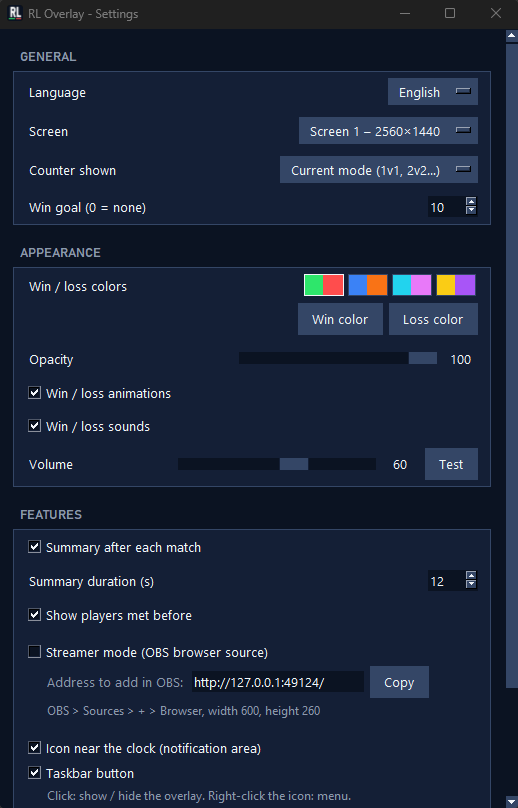
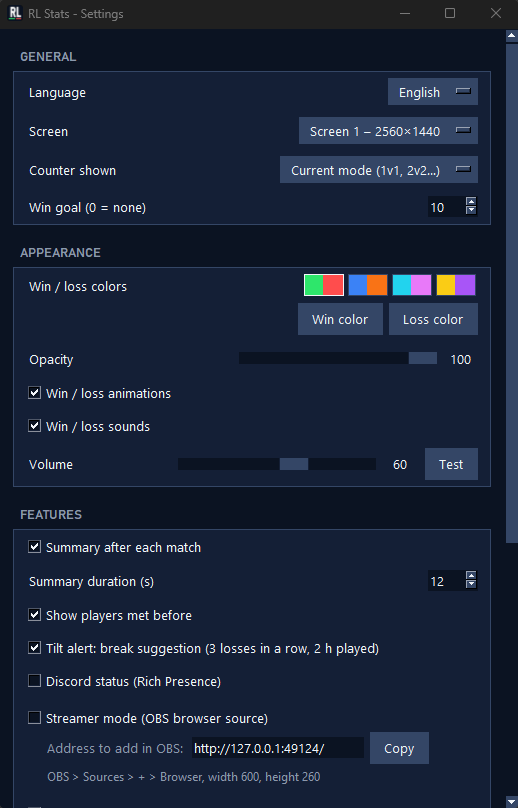
Rename the app to RL Stats
- rl_overlay.pyw/.spec/_wl.ico -> rl_stats.pyw/.spec/.ico, exe "RL Stats.exe"
- Window titles, tray tooltip, session card, Discord status, OBS page, docs
- Data migrated automatically from %APPDATA%\RL Overlay to %APPDATA%\RL Stats
- "Start with Windows" entry migrated to the new name
- Screenshots updated

diff --git a/i18n.py b/i18n.py
@@ -42,7 +42,7 @@ TEXTS = {
     "dc_streak": ("Série de {n} victoires", "{n} win streak"),
     "dc_games": ("{n} matchs cette session", "{n} games this session"),
     "dc_waiting": ("Session en cours", "Session in progress"),
-    "dc_button": ("Obtenir RL Overlay", "Get RL Overlay"),
+    "dc_button": ("Obtenir RL Stats", "Get RL Stats"),
 
     # Resume de match
     "sum_win": ("VICTOIRE", "VICTORY"),
@@ -97,7 +97,7 @@ TEXTS = {
     "name_detected": ("Détecté automatiquement : {name}", "Detected automatically: {name}"),
 
     # Parametres
-    "s_title": ("RL Overlay - Paramètres", "RL Overlay - Settings"),
+    "s_title": ("RL Stats - Paramètres", "RL Stats - Settings"),
     "s_general": ("Général", "General"),
     "s_language": ("Langue", "Language"),
     "s_lang_auto": ("Automatique (Windows)", "Automatic (Windows)"),
@@ -131,7 +131,7 @@ TEXTS = {
     "s_taskbar": ("Bouton dans la barre des tâches", "Taskbar button"),
     "s_shell_hint": ("Clic : afficher / masquer l'overlay. Clic droit sur l'icône : menu.",
                      "Click: show / hide the overlay. Right-click the icon: menu."),
-    "tray_tip": ("RL Overlay – {w}V {l}D", "RL Overlay – {w}W {l}L"),
+    "tray_tip": ("RL Stats – {w}V {l}D", "RL Stats – {w}W {l}L"),
     "s_hotkeys": ("Raccourcis clavier", "Keyboard shortcuts"),
     "s_hotkeys_desc": ("Ctrl+Maj+H : masquer / afficher    Ctrl+Maj+R : réinitialiser la session",
                        "Ctrl+Shift+H: hide / show    Ctrl+Shift+R: reset session"),
@@ -152,7 +152,7 @@ TEXTS = {
                      "Unavailable: no Discord application ID in this build"),
 
     # Historique
-    "h_title": ("RL Overlay - Historique", "RL Overlay - History"),
+    "h_title": ("RL Stats - Historique", "RL Stats - History"),
     "h_overview": ("Progression", "Progress"),
     "h_players": ("Joueurs croisés", "Players met"),
     "h_matches_tab": ("Matchs", "Games"),

diff --git a/designs.py b/designs.py
@@ -671,7 +671,7 @@ def render_session_card(info, T):
     d.rectangle([0, 0, split, 8 * s], fill=GREEN)
     d.rectangle([split, 0, W, 8 * s], fill=RED)
 
-    t = text_img([("RL OVERLAY", font(round(16 * s)), MUTED, 0), ("·  " + T("card_session"), font(round(16 * s), SEMI),
+    t = text_img([("RL STATS", font(round(16 * s)), MUTED, 0), ("·  " + T("card_session"), font(round(16 * s), SEMI),
                                                                    MUTED, 0)], shear=0)
     img.alpha_composite(t, (round(pad), round(30 * s)))
     t = text_img([(info["date"], font(round(16 * s), SEMI), MUTED, 0)], shear=0)

diff --git a/ui_windows.py b/ui_windows.py
@@ -661,7 +661,7 @@ class HistoryWindow:
             c.create_oval(px - r, py - r, px + r, py + r, fill=color, outline=PANEL, width=2)
 
     def export(self):
-        path = filedialog.asksaveasfilename(parent=self.win, defaultextension=".csv", initialfile="rl_overlay.csv",
+        path = filedialog.asksaveasfilename(parent=self.win, defaultextension=".csv", initialfile="rl_stats.csv",
                                             filetypes=[("CSV", "*.csv")])
         if path:
             self.history.export_csv(path)

diff --git a/obs_server.py b/obs_server.py
@@ -12,7 +12,7 @@ OBS_PORT = 49124
 OBS_URL = f"http://127.0.0.1:{OBS_PORT}/"
 
 PAGE = """<!doctype html>
-<html><head><meta charset="utf-8"><title>RL Overlay</title>
+<html><head><meta charset="utf-8"><title>RL Stats</title>
 <style>
   :root { --win: #2ee66b; --loss: #ff4d4d; --panel: rgba(11,19,34,.92); --mid: rgba(20,31,54,.92);
           --edge: #344666; --fg: #f1f5f9; --muted: #8c98ad; --amber: #f59e0b; }

diff --git a/README.md b/README.md
@@ -1,4 +1,4 @@
-# RL Overlay
+# RL Stats
 
 **Automatic win / loss tracker for Rocket League**, displayed right around your boost meter.
 Session stats per mode, post-match summary, history and progress charts, OBS browser source.
@@ -14,9 +14,9 @@ nothing is injected into the game and nothing touches the anti-cheat. Everything
 
 ## Download
 
-👉 **[Download the latest version](https://github.com/benguedj/RL_Stats/releases/latest)** (`RL Overlay.zip`, Windows 10/11)
+👉 **[Download the latest version](https://github.com/benguedj/RL_Stats/releases/latest)** (`RL Stats.zip`, Windows 10/11)
 
-1. Unzip and double-click **`RL Overlay.exe`** (no install needed).
+1. Unzip and double-click **`RL Stats.exe`** (no install needed).
    Windows SmartScreen may say *"Windows protected your PC"*: click **More info → Run anyway**
    (the exe is not code-signed).
 2. Start Rocket League, or **restart** it if it was already running (the game only reads its
@@ -83,9 +83,12 @@ in the players menu.
 
 **Are offline / private matches counted?** Only online matches are counted.
 
-**Where is my data?** In `%APPDATA%\RL Overlay` (settings, match history, log). Your data is never
+**Where is my data?** In `%APPDATA%\RL Stats` (settings, match history, log). Your data is never
 sent anywhere. The only network request is the update check, which asks GitHub for the latest
 release version (can be turned off in Settings → System).
+
+**Wasn't it called RL Overlay?** Yes, until version 1.1. Your settings, history and trophies are
+migrated automatically from `%APPDATA%\RL Overlay` on first launch.
 
 **Some advanced stats are missing.** Boost stats are only sent by the game for your own team, and
 stats like kickoffs, boost and the goal map are recorded starting with version 1.1.
@@ -101,10 +104,10 @@ Requirements: Windows 10/11, Python 3.10+.
 git clone https://github.com/benguedj/RL_Stats.git
 cd RL_Stats
 pip install -r requirements.txt
-pythonw rl_overlay.pyw
+pythonw rl_stats.pyw
 ```
 
-Build the standalone exe (`dist\RL Overlay.exe` + `dist\RL Overlay.zip`):
+Build the standalone exe (`dist\RL Stats.exe` + `dist\RL Stats.zip`):
 
 ```bat
 build.bat
@@ -114,7 +117,7 @@ build.bat
 
 | File | Role |
 |---|---|
-| `rl_overlay.pyw` | Entry point: Stats API connection, match tracking, overlay window, tray icon, hotkeys |
+| `rl_stats.pyw` | Entry point: Stats API connection, match tracking, overlay window, tray icon, hotkeys |
 | `designs.py` | Overlay styles, animations and match summary card, drawn with Pillow |
 | `history.py` | Match history (`matches.json`) and statistics |
 | `achievements.py` | Trophies and personal records |
@@ -122,14 +125,14 @@ build.bat
 | `ui_windows.py` | Settings and History windows (Tkinter) |
 | `obs_server.py` | Local page for OBS (streamer mode) |
 | `i18n.py` | English / French texts |
-| `rl_overlay.spec`, `build.bat` | PyInstaller build |
+| `rl_stats.spec`, `build.bat` | PyInstaller build |
 | `packaging/` | Readme files shipped in the zip |
 
 ## License
 
 [MIT](LICENSE) © benguedj
 
-*RL Overlay is a fan-made project, not affiliated with or endorsed by Psyonix or Epic Games.
+*RL Stats is a fan-made project, not affiliated with or endorsed by Psyonix or Epic Games.
 Rocket League is a trademark of Psyonix LLC.*
 
 ---
@@ -140,7 +143,7 @@ Rocket League is a trademark of Psyonix LLC.*
 
 👉 **[Télécharger la dernière version](https://github.com/benguedj/RL_Stats/releases/latest)**, puis :
 
-1. Dézippe et lance **`RL Overlay.exe`**. Si Windows affiche *« Windows a protégé votre ordinateur »* :
+1. Dézippe et lance **`RL Stats.exe`**. Si Windows affiche *« Windows a protégé votre ordinateur »* :
    **Informations complémentaires → Exécuter quand même** (l'exe n'est pas signé).
 2. Lance Rocket League (ou **relance-le** s'il était ouvert). L'overlay active la Stats API tout seul.
 3. Dans les options vidéo du jeu, choisis **Fenêtré sans bordure**.
@@ -156,4 +159,4 @@ démarrage avec Windows, notification des mises à jour, français / anglais.
 glisser pour le déplacer, `Ctrl+Maj+H` pour le masquer, `Ctrl+Maj+R` pour réinitialiser la session.
 
 Utilise la **Stats API officielle** de Rocket League : rien n'est injecté dans le jeu, aucun risque
-avec l'anti-cheat. Les données restent sur ton PC (`%APPDATA%\RL Overlay`).
+avec l'anti-cheat. Les données restent sur ton PC (`%APPDATA%\RL Stats`).
